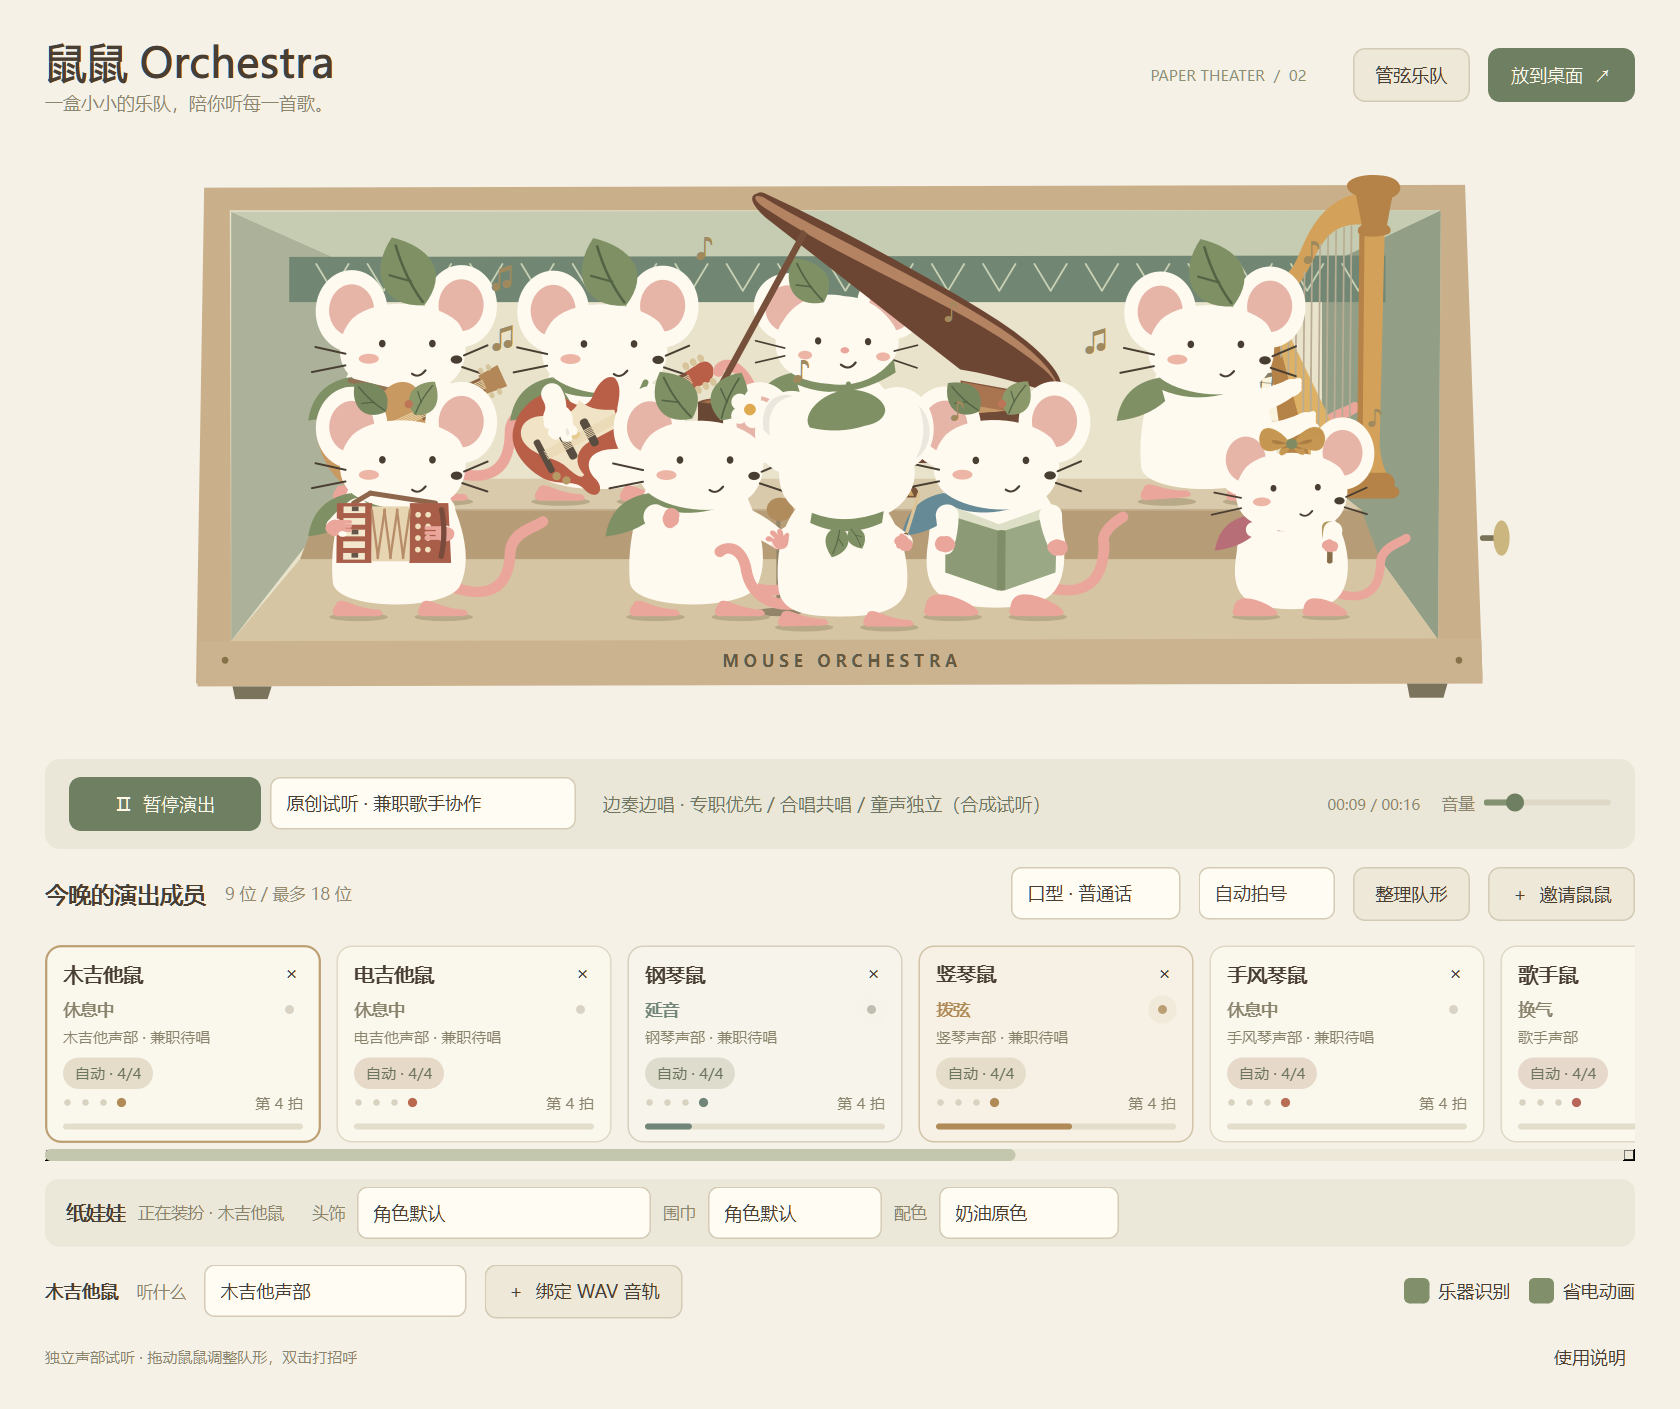
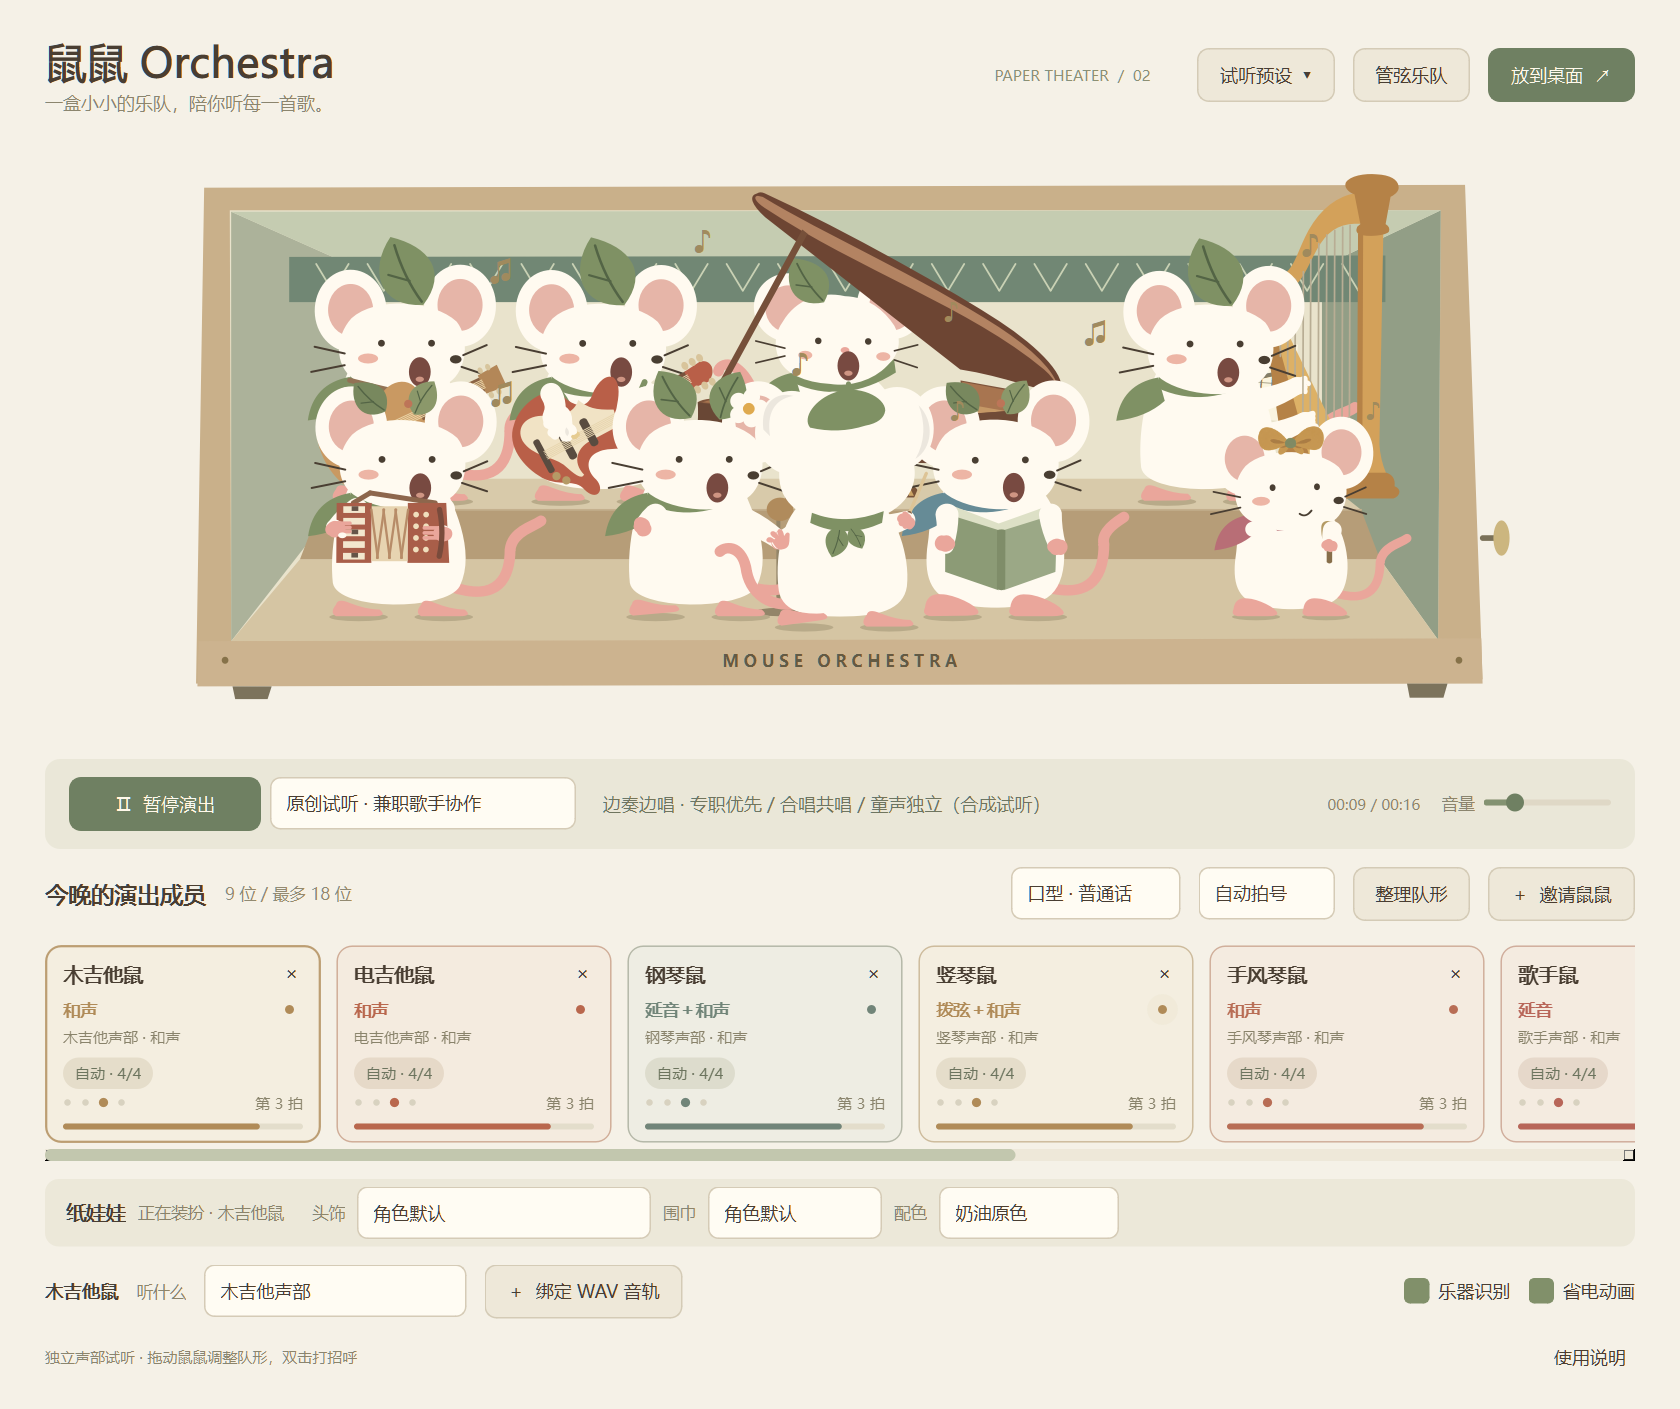
Document original auditions and official Heal the World linked roster

diff --git a/README.md b/README.md
@@ -6,7 +6,7 @@
 
 无描边的森林鼠鼠 · 可自由编队的桌面音乐盒 · 本地音频驱动
 
-[下载 Windows 预览版](https://github.com/Guzi2005/mouse-orchestra-releases/releases/tag/v0.2.38) · [快速上手](#三分钟开始演出) · [反馈问题](https://github.com/Guzi2005/mouse-orchestra-releases/issues/new?template=bug_report.yml)
+[下载 Windows 预览版](https://github.com/Guzi2005/mouse-orchestra-releases/releases/tag/v0.2.39) · [快速上手](#三分钟开始演出) · [反馈问题](https://github.com/Guzi2005/mouse-orchestra-releases/issues/new?template=bug_report.yml)
 
 ![桌面音乐盒：鼠鼠在两层纸剧场里演奏](media/desktop.png)
 
@@ -14,7 +14,7 @@
 
 指挥会给拍，鼓手会甩腕，提琴手会换弓，竖琴手会拨弦。你可以把喜欢的成员放进发条盒子，替它们换装、拖动站位，或让旋律乐手边弹边唱。
 
-**当前版本：v0.2.38 · 公开预览版 · Windows x64。** 无需安装 Python，也无需登录或联网运行。公开仓库用于下载、说明和问题反馈；应用开发源码暂未公开。
+**当前版本：v0.2.39 · 公开预览版 · Windows x64。** 无需安装 Python，也无需登录或联网运行。公开仓库用于下载、说明和问题反馈；应用开发源码暂未公开。
 
 ## 看看它们怎么演奏
 
@@ -43,7 +43,7 @@
 
 ## 下载与运行
 
-1. 打开 [v0.2.38 下载页](https://github.com/Guzi2005/mouse-orchestra-releases/releases/tag/v0.2.38)，在 **Assets** 中下载 **MouseOrchestra-v0.2.38-Windows-x64.zip**。
+1. 打开 [v0.2.39 下载页](https://github.com/Guzi2005/mouse-orchestra-releases/releases/tag/v0.2.39)，在 **Assets** 中下载 **MouseOrchestra-v0.2.39-Windows-x64.zip**。
 2. **完整解压**，进入解压后的 `MouseOrchestra` 文件夹。
 3. 双击 `MouseOrchestra.exe`，或 `启动鼠鼠.cmd`。
 
@@ -54,7 +54,7 @@
 发布页提供 `SHA256SUMS.txt`，可在 PowerShell 核对文件：
 
 ```powershell
-Get-FileHash .\MouseOrchestra-v0.2.38-Windows-x64.zip -Algorithm SHA256
+Get-FileHash .\MouseOrchestra-v0.2.39-Windows-x64.zip -Algorithm SHA256
 ```
 
 ## 三分钟开始演出
@@ -76,6 +76,18 @@ Get-FileHash .\MouseOrchestra-v0.2.38-Windows-x64.zip -Algorithm SHA256
 - **可见的音乐反应。** 成员卡片显示实际动作、声部、强度和拍号；拍号不确定时标为示意。眼神连续移动，成员入场时互望、看指挥；休止后会收势和待机。
 - **声乐并行。** 主唱、和声与童声可以同时开口；自动分工优先专职主唱，其他成人可唱成员参与已检测到的合唱。小小鼠需要童声特征证据，不会因高音自动接管主唱。
 
+## 曲目与阵容预设
+
+右上角 **“试听预设 ▾”** 会同时载入曲目与合适的编制。除了原有《叶间小步舞》，还有三首原创合成试听：
+
+- **把灯留给你**：84 BPM 的抒情合唱，主唱、和声、童声应答，钢琴与清音电吉他、弦乐和鼓组。
+- **莓果跳跳**：112 BPM 的拨扫律动，木／电吉他、反拍鼓组、双手同步沙锤及主唱和声。
+- **月光落叶**：90 BPM 的三拍小乐队，竖琴单拨／琶音／扫弦，弦乐长句、竹笛与三角铁。
+
+同一菜单还有 **“Heal the World · 官方音源联动”**：安排 11 位成员，包含电吉他、架子鼓、小小鼠、主唱、两位和声、钢琴、弦乐和指挥；打开 [Michael Jackson 官方播放页](https://www.michaeljackson.com/watch/heal-the-world/)，同时开始本机系统声音监听。**请在官方页面点播放原曲**，鼠鼠跟随实际声音响应；原曲没有复制或改编进应用包，也没有写死原曲时间点假演奏。
+
+键盘、主唱／伴唱、合唱和鼓参考 [发行署名](https://music.apple.com/us/song/655263571)。电吉他按本项目编制作为扩展演绎；阵容预设不表示精确还原原录音的每条音轨。官方页面需要联网，可能受地区与浏览器播放策略影响。选择原创曲仍可全程离线。切换后可从同一菜单选择 **“撤销试听换队”**，恢复之前的成员、站位、配饰和声源。
+
 ## 试听入口
 
 解压包内有几个不覆盖已保存队形的专用试听：
@@ -96,7 +108,7 @@ Get-FileHash .\MouseOrchestra-v0.2.38-Windows-x64.zip -Algorithm SHA256
 
 主唱、和声、小小的类别可以并存，但自然混音里的多位歌手不能被逐人精确分配。只有一位成人可唱成员时会合并成人声乐能量、采用中性口型；中文／日语／通用元音选项是声学口型近似，不是歌词识别或精确唇读。“童声”表示音色特征，不证明演唱者年龄。
 
-**本版验证：** 106 项回归通过，包含实际播放和 Windows 回环采集；兼职声乐流程检查了 384 个原生帧与 8 个已知录音／受控混合场景。它们是功能与回归证据，不是通用识别准确率。
+**本版验证：** 110 项回归通过，包含实际播放和 Windows 回环采集；兼职声乐流程检查了 384 个原生帧与 8 个已知录音／受控混合场景。它们是功能与回归证据，不是通用识别准确率。
 
 ## 常见问题
 

diff --git a/RELEASE_NOTES.md b/RELEASE_NOTES.md
@@ -1,19 +1,23 @@
-# 鼠鼠 Orchestra v0.2.38 · 首个公开预览版
+# 鼠鼠 Orchestra v0.2.39 · 试听曲目与阵容预设
 
 一盒可自由编队的森林鼠鼠乐团：本地监听音乐、拖拽站位、换装、两层纸剧场，以及边奏边唱的兼职歌手。
 
-**下载 `MouseOrchestra-v0.2.38-Windows-x64.zip`，完整解压后运行 `MouseOrchestra.exe`。** Windows 10/11 x64，无需安装 Python。保留 `_internal` 文件夹；自动生成的 Source code 压缩包只有文档和图片，不是应用。
+**下载 `MouseOrchestra-v0.2.39-Windows-x64.zip`，完整解压后运行 `MouseOrchestra.exe`。** Windows 10/11 x64，无需安装 Python。保留 `_internal` 文件夹；自动生成的 Source code 压缩包只有文档和图片，不是应用。
 
-本次包括同步沙锤律动、竖琴指法、分层菜单、23 种角色、一键 16 位管弦编队及八类乐器的兼职声乐。主唱／和声／童声可以并行；乐器与唱歌可以独立绑定 WAV。详见仓库 README 的截图、动作 GIF 和上手指南。
+右上角“试听预设”新增三首原创曲：抒情合唱《把灯留给你》、拨扫律动《莓果跳跳》、三拍竖琴《月光落叶》，保留原有室内曲；载入对应编制，可撤销恢复成员／站位／声源。独立PCM与同源演奏事件驱动，场上缺席角色不参与混音。
 
-这是 **Pre-release**。复杂混音采用轻量类别与音响特征近似，仍可能误动、漏奏；没有逐乐器／逐人分轨。口型不是歌词识别，童声特征不证明年龄。106 项回归与既有录音场景为功能验证，不代表通用识别准确率。
+《Heal the World》11位阵营包含电吉他、架子鼓、童声、主唱、和声、钢琴、弦乐与指挥。预设打开Michael Jackson官方播放页并开始系统音频监听，需在原站点播放；原曲、歌词和改编音频不随应用提供，电吉他为扩展演绎，不称逐轨原版复原。
+
+保留v0.2.38的23角色、纸娃娃、同步沙锤、竖琴指法、分层菜单、管弦编队与八类乐器兼职声乐。详见README的截图、GIF和上手指南。
+
+这是 **Pre-release**。复杂混音采用轻量类别与音响特征近似，仍可能误动、漏奏；没有逐乐器／逐人分轨。口型不是歌词识别，童声特征不证明年龄。110 项回归、三首原创曲288原生帧及既有录音场景为功能验证，不代表通用识别准确率。
 
 应用开发仓库保持私有，此公开仓库提供发行包、文档与反馈。包内实验音色权重采用非商业许可，请阅读 `USAGE.md` 和 `THIRD_PARTY_NOTICES.md`。Qt/PySide6 采用动态库，另附对应第三方源码；不是本项目应用源码。
 
 附件：
 
-- `MouseOrchestra-v0.2.38-Windows-x64.zip` — 应用便携包。
-- `MouseOrchestra-v0.2.38-third-party-sources.zip` — 对应 Qt/PySide6 第三方源码与构建／替换说明。
+- `MouseOrchestra-v0.2.39-Windows-x64.zip` — 应用便携包。
+- `MouseOrchestra-v0.2.39-third-party-sources.zip` — 对应 Qt/PySide6 第三方源码与构建／替换说明。
 - `SHA256SUMS.txt` — 上述附件的 SHA-256。
 
 软件未签名。可先核对来源和 SHA-256；有问题请通过 Issues 反馈，无需关闭系统防护。

diff --git a/CHANGELOG.md b/CHANGELOG.md
@@ -1,5 +1,12 @@
 # 公开发行更新
 
+## v0.2.39 · 2026-10-13 · 试听曲目与阵容预设
+
+- 新增“试听预设”菜单：原创抒情合唱、拨扫律动、三拍竖琴，以及原有室内曲。
+- 曲目有独立真实PCM声部和同源演奏事件，载入对应编制，可撤销恢复原成员／站位／配饰／声源。
+- Heal the World 11位阵营及官方播放页联动，包含主唱、和声、童声、电吉他和架子鼓；系统声音实况驱动，不附原曲、歌词或改编音频，不预置原曲假动作时间点。
+- 110项完整回归通过，三曲288原生帧与四项音频／撤销／正版联动边界检查通过；另验新包各试听实际有声启动。
+
 ## v0.2.38 · 2026-10-13 · 首个公开预览版
 
 - Windows x64 便携包，完整解压即可运行，模型随包提供。

diff --git a/USAGE.md b/USAGE.md
@@ -1,6 +1,6 @@
 # 使用与许可说明
 
-鼠鼠 Orchestra v0.2.38 于 2026-10-13 提供公开、免费的 Windows 预览下载。项目作者：Guzi2005。
+鼠鼠 Orchestra v0.2.39 于 2026-10-13 提供公开、免费的 Windows 预览下载。项目作者：Guzi2005。
 
 公开仓库提供发行包、文档、截图与反馈入口。应用开发源码尚未公开，本次发布不授予对项目原创程序、图形和文档的 MIT、GPL 或其他开源许可；未明确授予的原创内容权利保留。第三方许可单独适用，不能用本说明限制其已授予的权利。
 
